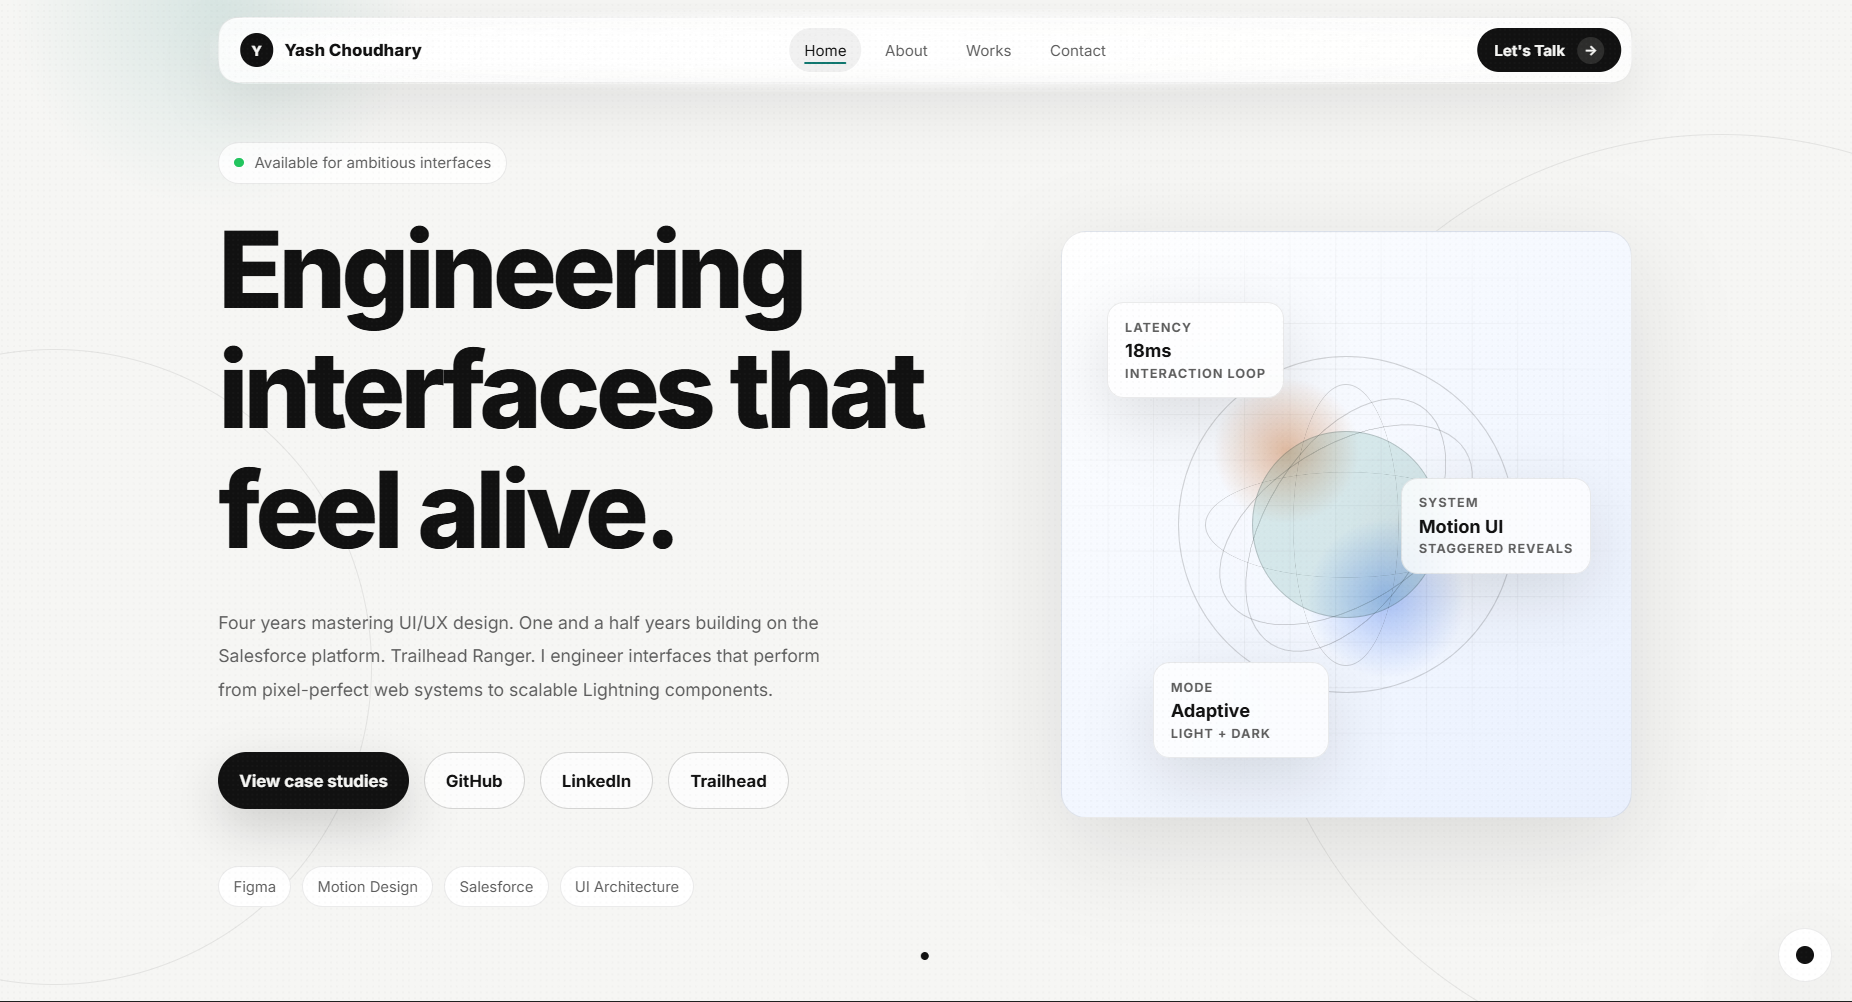
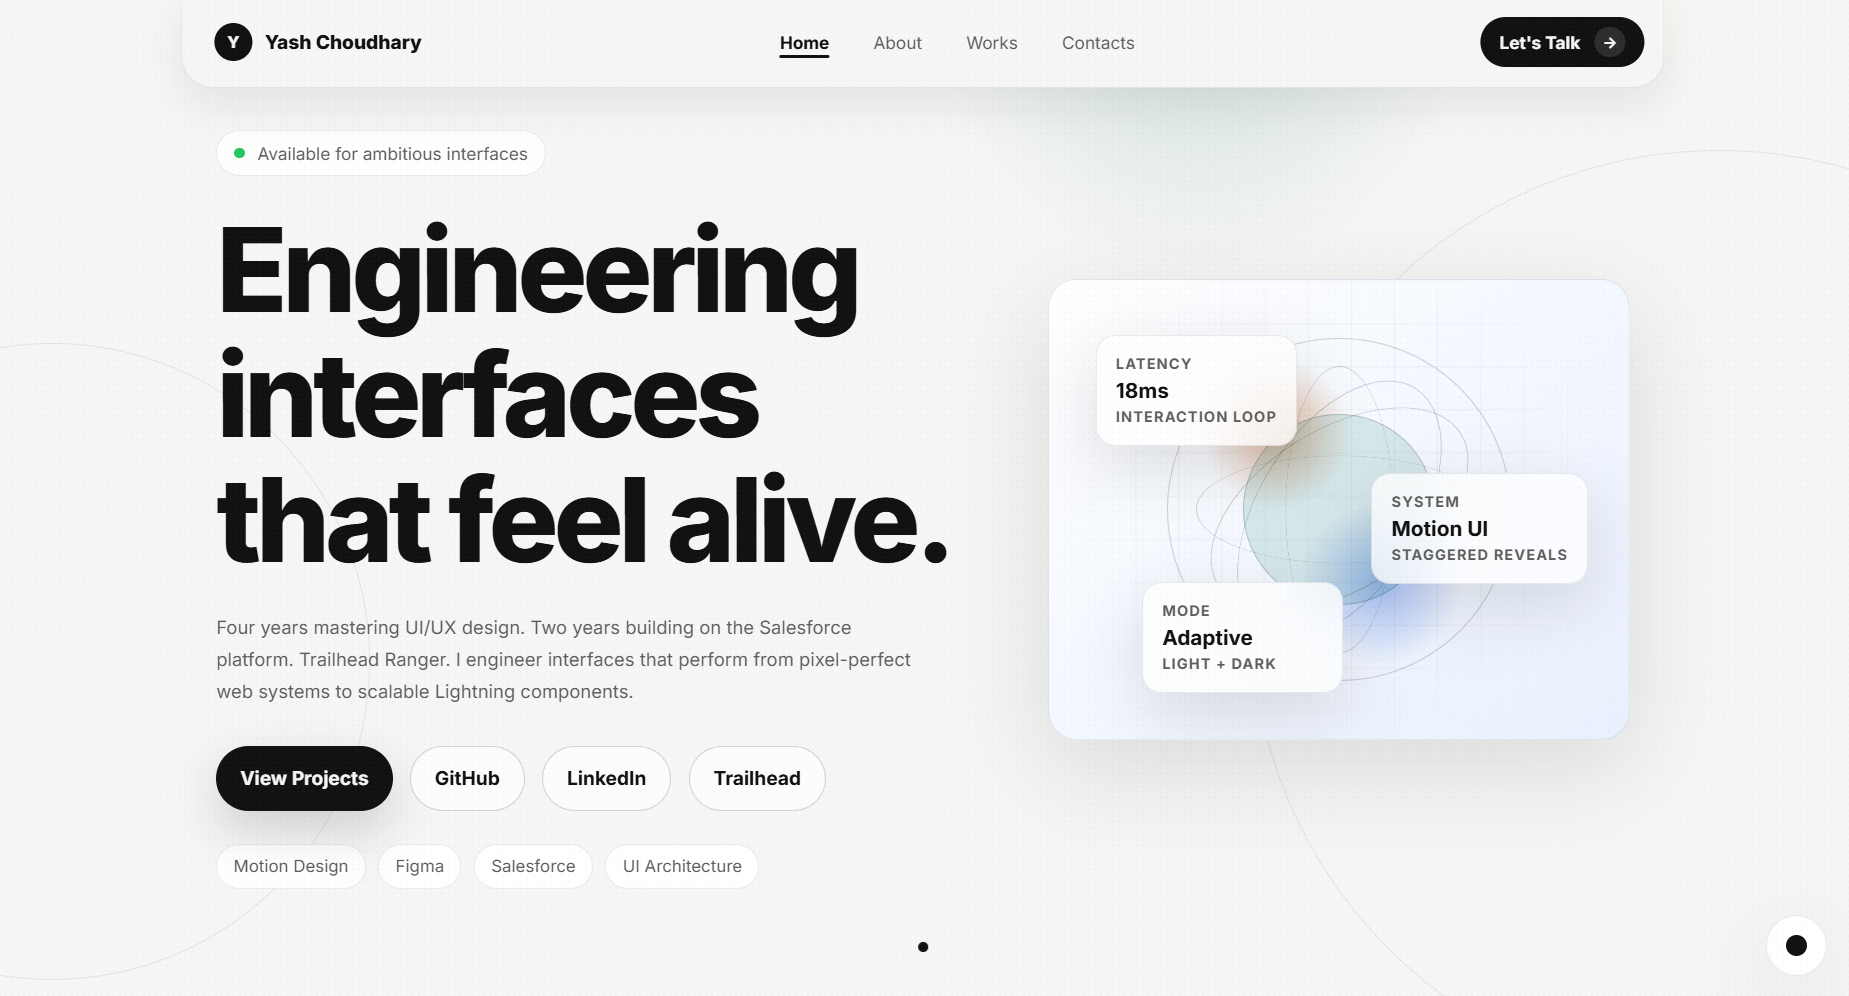
configuring the contact form supabase integration and other tiny audits

diff --git a/js/app.js b/js/app.js
@@ -225,7 +225,10 @@
         });
 
         document.querySelectorAll("section").forEach((section) => {
-            gsap.to(section.querySelectorAll(".fade-up"), {
+            const skillCards = section.querySelectorAll(".skill-category.fade-up");
+            const contactForm = section.querySelector(".contact-form.fade-up");
+
+            gsap.to(section.querySelectorAll(".fade-up:not(.skill-category):not(.contact-form)"), {
                 y: 0,
                 opacity: 1,
                 stagger: 0.08,
@@ -236,6 +239,39 @@
                     start: "top 72%"
                 }
             });
+
+            if (skillCards.length) {
+                gsap.to(skillCards, {
+                    x: 0,
+                    y: 0,
+                    rotation: 0,
+                    scale: 1,
+                    opacity: 1,
+                    stagger: 0.12,
+                    duration: 1.25,
+                    ease: "back.out(1.45)",
+                    scrollTrigger: {
+                        trigger: skillCards[0].closest(".skills-grid"),
+                        start: "top 78%",
+                        once: true
+                    }
+                });
+            }
+
+            if (contactForm) {
+                gsap.to(contactForm, {
+                    y: 0,
+                    scale: 1,
+                    opacity: 1,
+                    duration: 1.15,
+                    ease: "back.out(1.3)",
+                    scrollTrigger: {
+                        trigger: contactForm,
+                        start: "top 78%",
+                        once: true
+                    }
+                });
+            }
         });
 
         gsap.to(".hero-visual", {
@@ -313,40 +349,77 @@
 
     const contactForm = document.getElementById("contact-form");
     const contactStatus = document.querySelector(".form-status");
+    const supabaseUrl = "https://lnusbmtztiegustygzrh.supabase.co";
+    const supabaseAnonKey = "sb_publishable_TsstCVoZVMgtViL8Rq-1RA_pyFIhC4i";
 
     if (contactForm && contactStatus) {
-        contactForm.addEventListener("submit", (event) => {
+        contactForm.addEventListener("submit", async (event) => {
             event.preventDefault();
             const submitBtn = contactForm.querySelector('button[type="submit"]');
             const label = submitBtn?.querySelector(".button-label");
             const originalText = label ? label.textContent : submitBtn?.textContent || "Send Message";
+            const formData = new FormData(contactForm);
+            const firstName = String(formData.get("firstName") || "").trim();
+            const lastName = String(formData.get("lastName") || "").trim();
+
+            const payload = {
+                first_name: firstName,
+                last_name: lastName,
+                email: String(formData.get("email") || "").trim(),
+                message: String(formData.get("message") || "").trim()
+            };
 
             if (submitBtn) {
                 submitBtn.disabled = true;
             }
 
-            if (label) {
-                label.textContent = "SENT";
-            } else if (submitBtn) {
-                submitBtn.textContent = "SENT";
-            }
+            try {
+                const response = await fetch(`${supabaseUrl}/rest/v1/contact_messages`, {
+                    method: "POST",
+                    headers: {
+                        apikey: supabaseAnonKey,
+                        Authorization: `Bearer ${supabaseAnonKey}`,
+                        "Content-Type": "application/json",
+                        Prefer: "return=minimal"
+                    },
+                    body: JSON.stringify(payload)
+                });
 
-            contactStatus.textContent = "Message captured. Please use email or phone for the quickest reply.";
-            contactForm.reset();
-
-            window.setTimeout(() => {
-                if (label) {
-                    label.textContent = originalText;
-                } else if (submitBtn) {
-                    submitBtn.textContent = originalText;
+                if (!response.ok) {
+                    const errorDetails = await response.text();
+                    throw new Error(`Supabase request failed (${response.status}): ${errorDetails}`);
                 }
+
+                if (label) {
+                    label.textContent = "SENT";
+                } else if (submitBtn) {
+                    submitBtn.textContent = "SENT";
+                }
+
+                contactStatus.textContent = "Message sent successfully. Thanks for reaching out.";
+                contactForm.reset();
+
+                window.setTimeout(() => {
+                    if (label) {
+                        label.textContent = originalText;
+                    } else if (submitBtn) {
+                        submitBtn.textContent = originalText;
+                    }
+
+                    if (submitBtn) {
+                        submitBtn.disabled = false;
+                    }
+
+                    contactStatus.textContent = "";
+                }, 3000);
+            } catch (error) {
+                console.error("Contact form submission failed:", error);
+                contactStatus.textContent = "Unable to send. Open the browser console for the Supabase error details.";
 
                 if (submitBtn) {
                     submitBtn.disabled = false;
                 }
-
-                contactStatus.textContent = "";
-            }, 3000);
+            }
         });
     }
 })();

diff --git a/css/style.css b/css/style.css
@@ -842,6 +842,10 @@ img {
     overflow: hidden;
 }
 
+.skill-category.fade-up {
+    transform: translate(-3rem, 2.5rem) rotate(-1.5deg) scale(0.97);
+}
+
 .project-card {
     height: 100%;
     overflow: hidden;
@@ -1075,6 +1079,21 @@ body[data-theme="dark"] .project-nav:hover:not(.swiper-button-disabled) {
     padding: clamp(1rem, 2vw, 2.5rem);
 }
 
+.contact-form.fade-up {
+    transform: translateY(4rem) scale(0.96);
+}
+
+.name-fields {
+    display: grid;
+    grid-template-columns: repeat(2, minmax(0, 1fr));
+    gap: 1rem;
+    align-items: start;
+}
+
+.name-fields label:last-of-type {
+    margin-bottom: 0;
+}
+
 .contact-form label {
     display: grid;
     gap: 0.75rem;
@@ -1084,7 +1103,7 @@ body[data-theme="dark"] .project-nav:hover:not(.swiper-button-disabled) {
     margin-bottom: 1rem;
 }
 
-.contact-form label:last-of-type {
+.contact-form > label:last-of-type {
     margin-bottom: 1.75rem;
 }
 
@@ -1127,8 +1146,10 @@ body[data-theme="dark"] .project-nav:hover:not(.swiper-button-disabled) {
 .form-status {
     min-height: 0rem;
     margin: 0;
-    color: var(--accent);
-    font-weight: 800;
+    color: var(--text-soft);
+    font-size: 0.82rem;
+    font-weight: 600;
+    line-height: 1.5;
 }
 
 .project-nav.swiper-button-prev::after {

diff --git a/index.html b/index.html
@@ -323,13 +323,19 @@
                 </div>
 
                 <form id="contact-form" class="contact-form fade-up">
-                    <label>
-                        <span>Name</span>
-                        <input name="name" type="text" placeholder="Your name" required>
-                    </label>
+                    <div class="name-fields">
+                        <label>
+                            <span>First Name</span>
+                            <input name="firstName" type="text" placeholder="Your first name" autocomplete="given-name" required>
+                        </label>
+                        <label>
+                            <span>Last Name</span>
+                            <input name="lastName" type="text" placeholder="Your last name" autocomplete="family-name" required>
+                        </label>
+                    </div>
                     <label>
                         <span>Email</span>
-                        <input name="email" type="email" placeholder="you@email.com" required>
+                        <input name="email" type="email" placeholder="you@email.com" autocomplete="email" required>
                     </label>
                     <label>
                         <span>Project</span>

diff --git a/css/responsive.css b/css/responsive.css
@@ -310,7 +310,7 @@
 
     .menu-open main,
     .menu-open .site-footer {
-        opacity: 0.45;
+        opacity: 0.24;
     }
 
     .nav-link {
@@ -545,6 +545,10 @@
         width: 100%;
         min-width: 0;
         padding: 1rem;
+    }
+
+    .name-fields {
+        grid-template-columns: 1fr;
     }
 
     .footer-inner {
